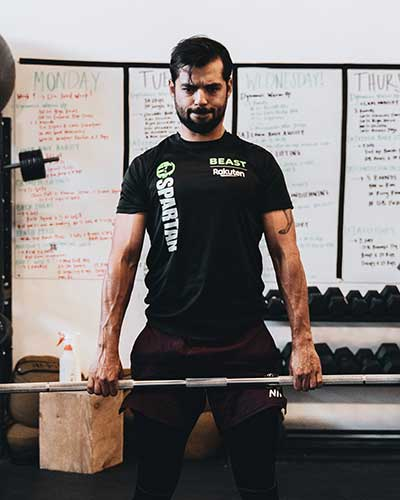
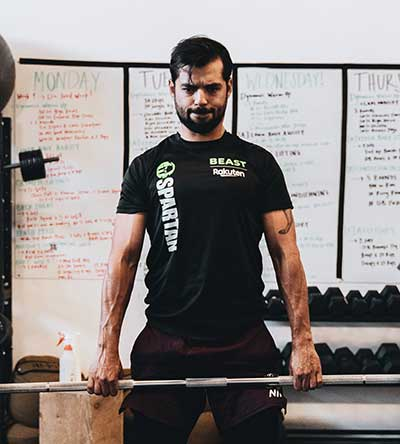
Added correct sizing to Trainer images

diff --git a/about.html b/about.html
@@ -67,17 +67,17 @@
                 </div>
             </div>
             <div class="row plans-row">
-                <div class="col-md-4 columns">
+                <div class="col-md-4">
                     <h2>Team Member 1</h2>
                     <img src="assets/images/trainer-1.jpg" alt="Man in black t-shirt lifting barbell">
                     <p>Name</p>
                 </div>
-                <div class="col-md-4 columns">
+                <div class="col-md-4">
                     <h2>Team Member 2</h2>
                     <img src="assets/images/trainer-2.jpg" alt="woman in black sports shorts exercising">
                     <p>Name</p>
                 </div>
-                <div class="col-md-4 columns">
+                <div class="col-md-4">
                     <h2>Team Member 3</h2>
                     <img src="assets/images/trainer-3.jpg" alt="Man in black tank top">
                     <p>Name</p>

diff --git a/assets/css/style.css b/assets/css/style.css
@@ -367,6 +367,16 @@ footer h2 {
     position: relative;
 }
 
+.team-area img {
+    max-width: 300px;
+    border: 8px solid var(--bright-green);
+    margin-top: 40px;
+    margin-bottom: 40px;
+    overflow: hidden;
+    -webkit-box-shadow: 0px -1px 1px 0px #1A3409; 
+    box-shadow: 0px -1px 1px 0px #1A3409;
+}
+
 /* About Video Section Style Rules */
 
 .about-video {
